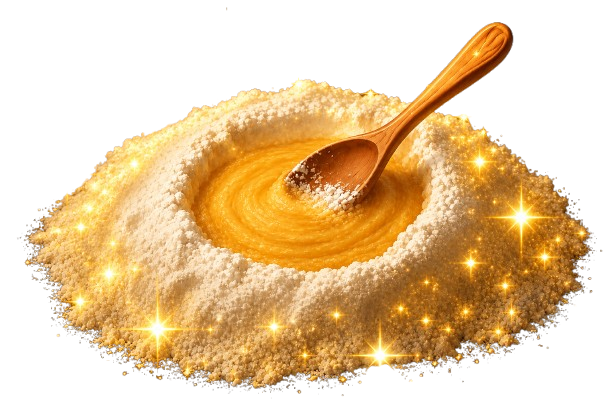
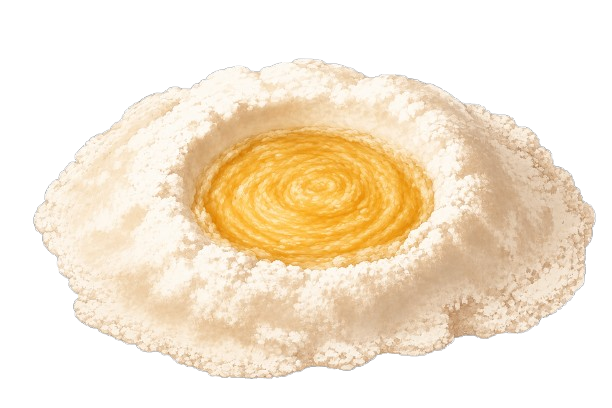
added fade in fade out effects for steps

diff --git a/scripts/gamePage-Level1.js b/scripts/gamePage-Level1.js
@@ -89,13 +89,9 @@ $(document).ready(function () {
             
             $("#step6-div").fadeOut(200,function()
             {
-                $("#step7-div").fadeIn(500).delay(500).fadeOut(500 , function()
-                    {
-                        $("#step8-div").fadeIn(500).delay(500).fadeOut(500 ,function()
-                        {
-                            $("#step9-div").fadeIn(500)
-                        })
-                    })
+                
+                $("#step7-div").fadeIn(1000)
+
             })
 
             stepCount ++ ;

diff --git a/styles/experience.css b/styles/experience.css
@@ -93,7 +93,7 @@
     position: absolute;
     cursor: pointer;
 }
-#level-cover-2 { bottom: 27%;left: 45%;}
+/* #level-cover-2 { bottom: 27%;left: 45%;} */
 
 #level-cover-3{bottom: 27%;left: 63%;}
 
